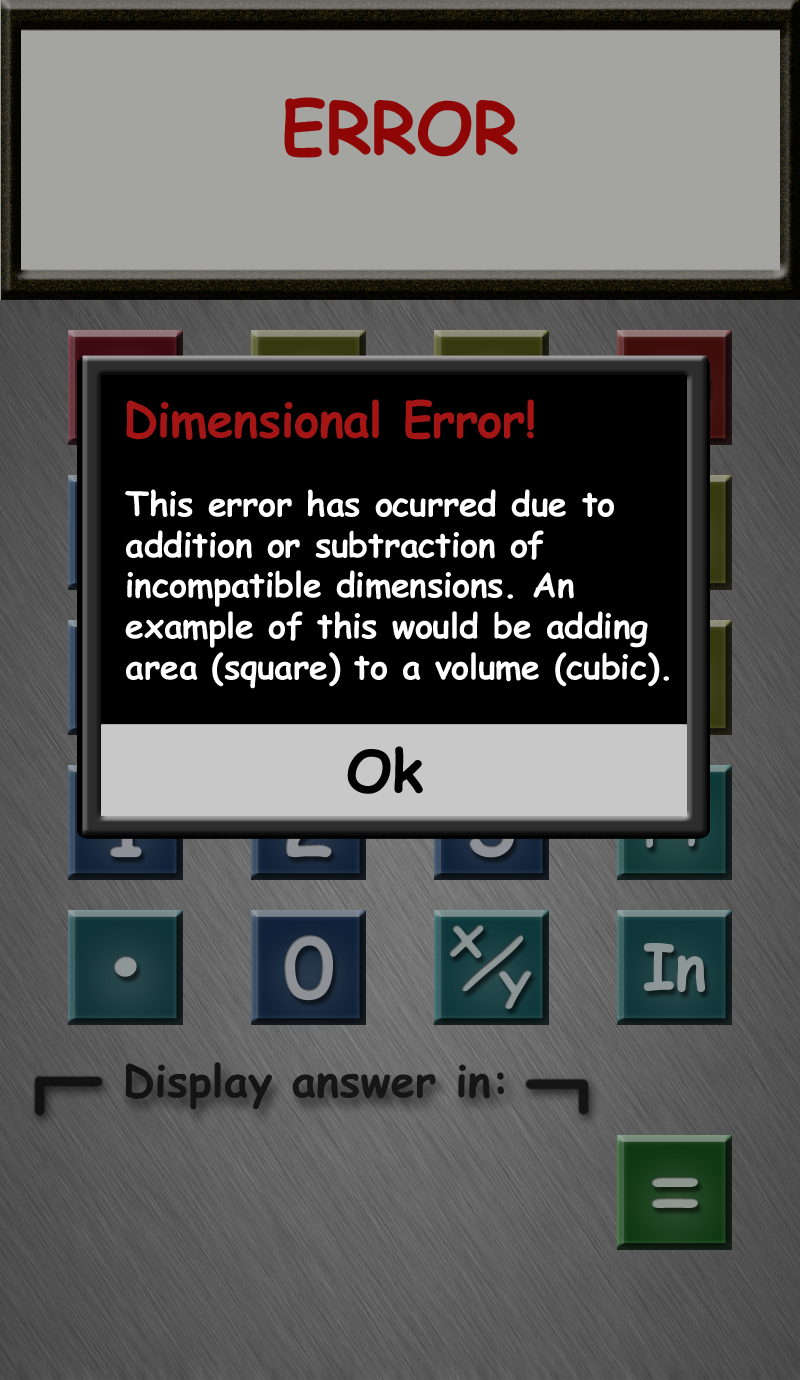
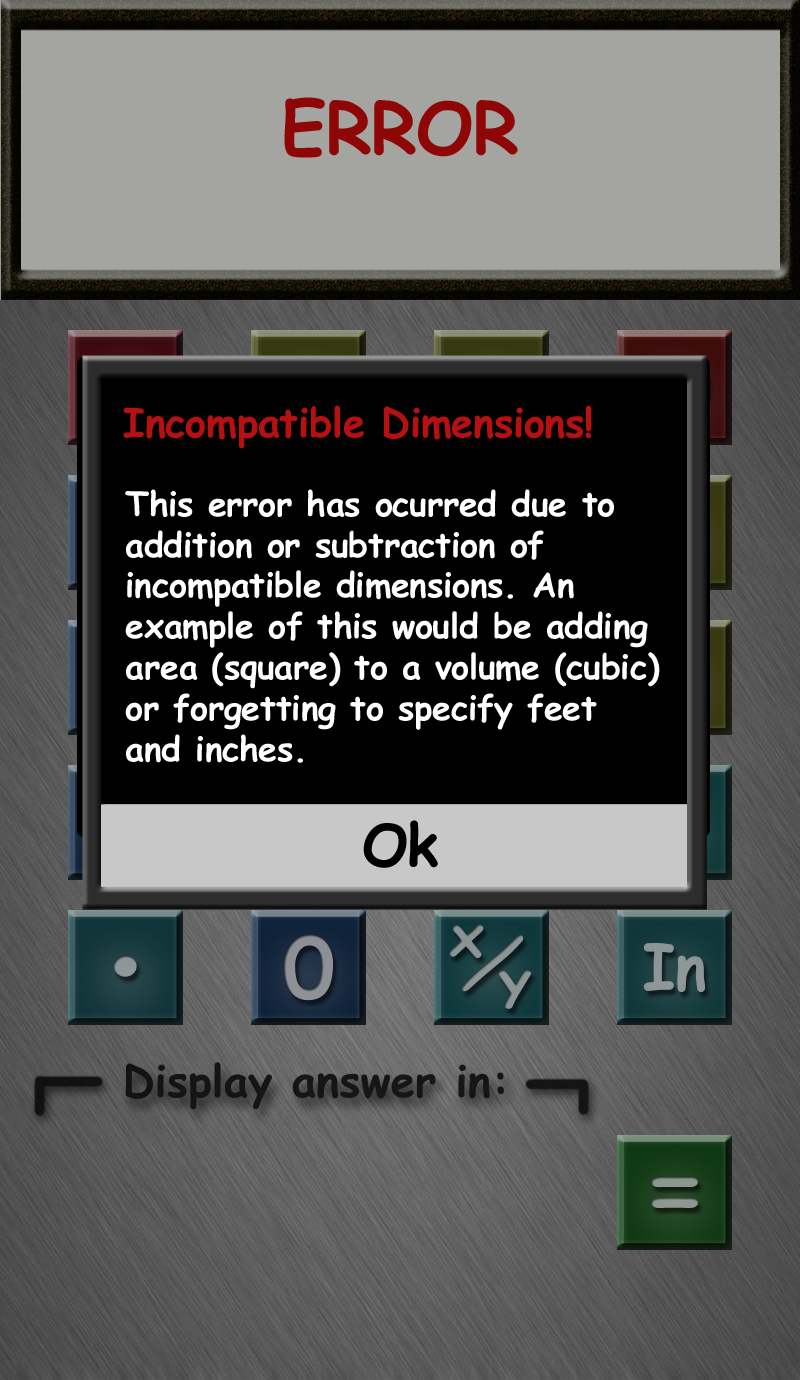
Add Error Screen

Changed region(s): [[0.0938, 0.4986, 0.9062, 0.6855], [0.1562, 0.2804, 0.75, 0.3428]]

diff --git a/src/com/RandNprograming/tapemeasurecalculator/calculator/screens/ErrorScreen.java b/src/com/RandNprograming/tapemeasurecalculator/calculator/screens/ErrorScreen.java
@@ -1,0 +1,63 @@
+package com.RandNprograming.tapemeasurecalculator.calculator.screens;
+
+import com.RandNprograming.tapemeasurecalculator.calculator.assets.Assets;
+import com.RandNprograming.tapemeasurecalculator.impl.AndroidTapemeasureCalculator;
+import com.RandNprograming.tapemeasurecalculator.interfaces.Calculator;
+import com.RandNprograming.tapemeasurecalculator.interfaces.Graphics;
+import com.RandNprograming.tapemeasurecalculator.interfaces.Input;
+import com.RandNprograming.tapemeasurecalculator.interfaces.Screen;
+
+import java.util.List;
+
+public class ErrorScreen extends Screen {
+
+    public ErrorScreen(Calculator calculator) {
+        super(calculator);
+    }
+
+    @Override
+    public void update(float deltaTime) {
+
+        List<Input.TouchEvent> touchEvents = calculator.getInput().getTouchEvent();
+        for (int i = 0; i < touchEvents.size(); i++) {
+            Input.TouchEvent event = touchEvents.get(i);
+
+            if (i == Input.TouchEvent.TOUCH_DOWN && touchIsInBounds(event,80,800,620,100)) {
+                calculator.setScreen(new MainCalculatorScreen(calculator));
+            }
+        }
+    }
+
+    @Override
+    public void present(float deltaTime) {
+        Graphics g = calculator.getGraphics();
+        g.clear(0xffffff);
+        g.drawPixmap(Assets.error_screen, 0, 0);
+    }
+
+    @Override
+    public void pause() {
+
+    }
+
+    @Override
+    public void resume() {
+
+    }
+
+    @Override
+    public void dispose() {
+
+    }
+
+    @Override
+    public void androidBackButton(AndroidTapemeasureCalculator activity) {
+
+    }
+
+    @Override
+    public void androidOptionButton() {
+
+    }
+
+}

diff --git a/src/com/RandNprograming/tapemeasurecalculator/calculator/utilities/CalculateEquation.java b/src/com/RandNprograming/tapemeasurecalculator/calculator/utilities/CalculateEquation.java
@@ -4,6 +4,9 @@ import com.RandNprograming.tapemeasurecalculator.calculator.mechanics.CalcHistor
 import com.RandNprograming.tapemeasurecalculator.calculator.mechanics.CalcState;
 import com.RandNprograming.tapemeasurecalculator.calculator.mechanics.Equation;
 import com.RandNprograming.tapemeasurecalculator.calculator.mechanics.Operator;
+import com.RandNprograming.tapemeasurecalculator.calculator.screens.ErrorScreen;
+import com.RandNprograming.tapemeasurecalculator.calculator.screens.MainCalculatorScreen;
+import com.RandNprograming.tapemeasurecalculator.impl.AndroidFastRenderView;
 
 public class CalculateEquation {
 
@@ -43,7 +46,7 @@ public class CalculateEquation {
             }
             catch (DimensionalErrorException e) {
                 CalcState.equation = historic;
-                System.out.println("DIMENSIONAL ERROR!");
+                AndroidFastRenderView.getCalculator().setScreen(new ErrorScreen(AndroidFastRenderView.getCalculator()));
             }
         }
     }

diff --git a/src/com/RandNprograming/tapemeasurecalculator/calculator/assets/Assets.java b/src/com/RandNprograming/tapemeasurecalculator/calculator/assets/Assets.java
@@ -11,6 +11,7 @@ public class Assets {
     public static Pixmap history_screen;
     public static Pixmap info_screen;
     public static Pixmap settings_screen;
+    public static Pixmap error_screen;
 
     public static Pixmap[] fractionOrDecimal = new Pixmap[2];
     public static Pixmap[] fractionPrecision = new Pixmap[3];
@@ -36,6 +37,7 @@ public class Assets {
         history_screen = g.newPixmap("screens/history_screen.png", format);
         info_screen = g.newPixmap("screens/info_screen.png", format);
         settings_screen = g.newPixmap("screens/settings_screen.png", format);
+        error_screen = g.newPixmap("screens/error_screen.png", format);
 
         fractionOrDecimal[0] = g.newPixmap("buttons/fraction_option.png", format);
         fractionOrDecimal[1] = g.newPixmap("buttons/decimal_option.png", format);

diff --git a/src/com/RandNprograming/tapemeasurecalculator/calculator/mechanics/Equation.java b/src/com/RandNprograming/tapemeasurecalculator/calculator/mechanics/Equation.java
@@ -217,10 +217,6 @@ public class Equation {
         if( ! num.contains("ft") && ! num.contains("in") &&
             ! num.contains("\"") && num.contains("'") && Character.isDigit(num.charAt(num.length()-1)) ) {
 
-            // Ignore adding the unit symbols for multiplications or divisions
-            if(mostRecentOperatorIsTimesOrDivide()) {
-                return;
-            }
             appendToLastNum("\"");
         }
     }
